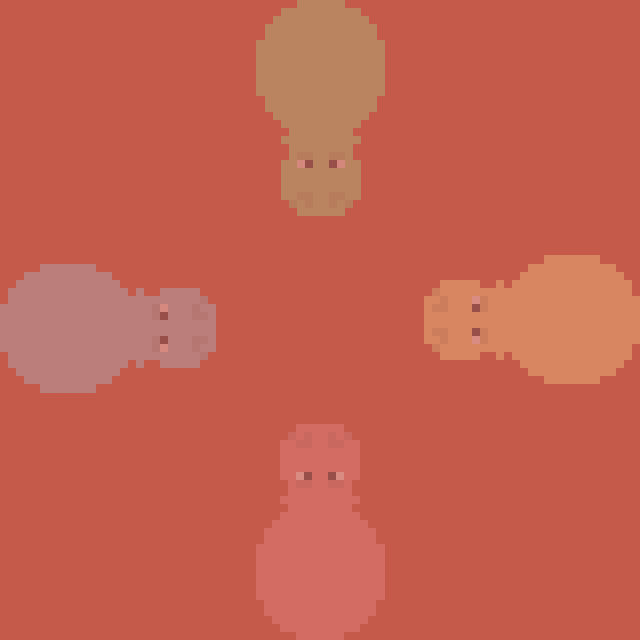
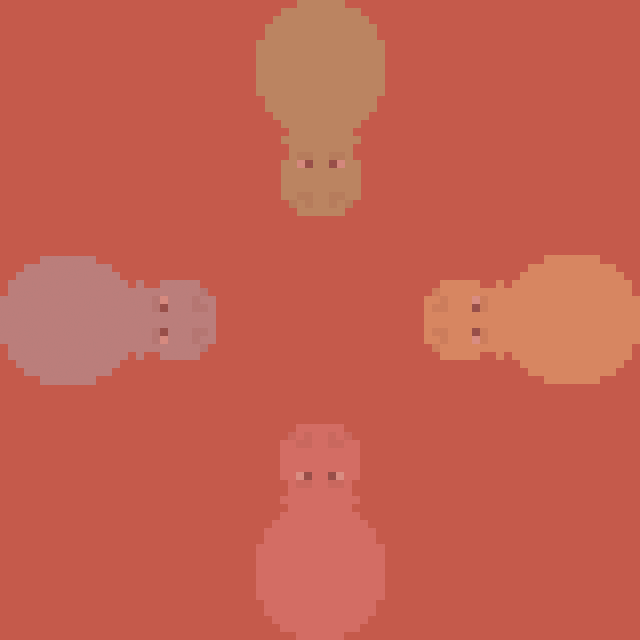
alignment issues

diff --git a/game.js b/game.js
@@ -2,6 +2,7 @@ window.onload = function() {
 
         var game = new Phaser.Game(640, 640, Phaser.AUTO, '');
         var game_state = {};
+        var player_score = 0;
 
         game_state.start = function () {};
         game_state.main = function () {};
@@ -38,7 +39,7 @@ window.onload = function() {
                 this.game.load.spritesheet('hippo_green', 'images/hippo_green.png', 128, 272);
                 this.game.load.spritesheet('hippo_blue', 'images/hippo_blue.png', 128, 272);
                 this.game.load.image('ball', 'images/ball.png');
-                this.game.load.audio('powerup', 'data/powerup_2.wav');
+                this.game.load.audio('powerup', 'data/powerup.wav');
                 this.game.load.audio('combo', 'data/combo.wav');
                 this.game.load.audio('tick', 'data/tick.wav');
             },
@@ -70,7 +71,7 @@ window.onload = function() {
                 this.hippo_green = this.game.add.sprite(this.game.width/2 - 40, 20, 'hippo_green', 12);
                 this.hippo_green.angle = 180;
 
-                this.hippo_blue = this.game.add.sprite(20, this.game.height - 272 - 80, 'hippo_blue', 18);
+                this.hippo_blue = this.game.add.sprite(20, this.game.height - 280 - 80, 'hippo_blue', 18);
                 this.hippo_blue.angle = 90;
                 
                 this.hippos = game.add.group();
@@ -104,12 +105,7 @@ window.onload = function() {
                 this.hippo_blue.body.immovable = true;
 
                 // Show UI
-                this.ui_timer = this.game.add.text(0, this.game.world.height, this.timer.toString(), {
-                    font: "72px slkscr",
-                    fill: "#ffffff",
-                    align: "right"
-                });
-                this.ui_timer.anchor.setTo(0, 1);
+                this.showTimer();
                 this.showScore(this.game.world.width, this.game.world.height);
 
                 // Set timers
@@ -182,6 +178,7 @@ window.onload = function() {
                 if (this.timer <= 1) {
                     this.hippos.removeAll();
                     this.balls.removeAll();
+                    player_score = this.hippo_pink.score;
                     game.state.start('end');
                 }
                 else {
@@ -195,31 +192,40 @@ window.onload = function() {
                 }
             },
             
+            showTimer: function () {
+                this.ui_timer = this.game.add.text(0, this.game.world.height + 10, this.timer.toString(), {
+                    font: "80px slkscr",
+                    fill: "#ffffff",
+                    align: "right"
+                });
+                this.ui_timer.anchor.setTo(0, 1);
+            },
+
             showScore: function (scoreX, scoreY) {
                 
-                this.ui_pink = game.add.text(scoreX, scoreY - 96, "0 Balls", {
-                    font: "24px slkscr",
+                this.ui_pink = game.add.text(scoreX, scoreY - 120, "0 Balls", {
+                    font: "32px slkscr",
                     fill: "#f2989b",
                     align: "right"
                 });
                 this.ui_pink.anchor.setTo(1, 0);
                 
-                this.ui_yellow = this.game.add.text(scoreX, scoreY - 72, "0 Balls", {
-                    font: "24px slkscr",
+                this.ui_yellow = this.game.add.text(scoreX, scoreY - 90, "0 Balls", {
+                    font: "32px slkscr",
                     fill: "#f8e792",
                     align: "right"
                 });
                 this.ui_yellow.anchor.setTo(1, 0);
                 
-                this.ui_green = this.game.add.text(scoreX, scoreY - 48, "0 Balls", {
-                    font: "24px slkscr",
+                this.ui_green = this.game.add.text(scoreX, scoreY - 60, "0 Balls", {
+                    font: "32px slkscr",
                     fill: "#90e192",
                     align: "right"
                 });
                 this.ui_green.anchor.setTo(1, 0);
                 
-                this.ui_blue = this.game.add.text(scoreX, scoreY - 24, "0 Balls", {
-                    font: "24px slkscr",
+                this.ui_blue = this.game.add.text(scoreX, scoreY - 30, "0 Balls", {
+                    font: "32px slkscr",
                     fill: "#91cae7",
                     align: "right"
                 });
@@ -257,7 +263,6 @@ window.onload = function() {
             comboEffects: function() {
                 if (this.hippo_pink.score != 0 && this.hippo_pink.score % 10 == 0) {
                     this.combo.play();
-                    console.log('hit');
                 }
             },
 
@@ -281,7 +286,6 @@ window.onload = function() {
                         if (hippo.key == 'hippo_pink') {
                             ui_pink.setText(hippo.score + " Balls");
                             // comboEffects;
-                            console.log('pink');
                         }
                         else if (hippo.key == 'hippo_yellow') {
                             ui_yellow.setText(hippo.score + " Balls");
@@ -324,12 +328,18 @@ window.onload = function() {
 
                 this.game.stage.backgroundColor = '#293542';
                 this.game.add.sprite(0, 0, 'menu');
-                var ui_gameover = this.game.add.text(this.game.world.width/2, this.game.world.height/2 - 50, "Game Over", {
+                var ui_gameover = this.game.add.text(this.game.world.width/2, this.game.world.height/2 - 60, "Game Over", {
                     font: "56px slkscr",
                     fill: "#ffffff",
                     align: "center"
                 });
                 ui_gameover.anchor.setTo(0.5, 0.5);
+                var ui_score = this.game.add.text(this.game.world.width/2, this.game.world.height/2, "You ate " + player_score + " balls", {
+                    font: "20px slkscr",
+                    fill: "#ffffff",
+                    align: "center"
+                });
+                ui_score.anchor.setTo(0.5, 0.5);
                 this.game.add.button(this.game.world.width/2 - 100, this.game.world.height/2 + 50, 'button', this.buttonPlay, this, 2, 2, 0);
             },
             buttonPlay: function () {
